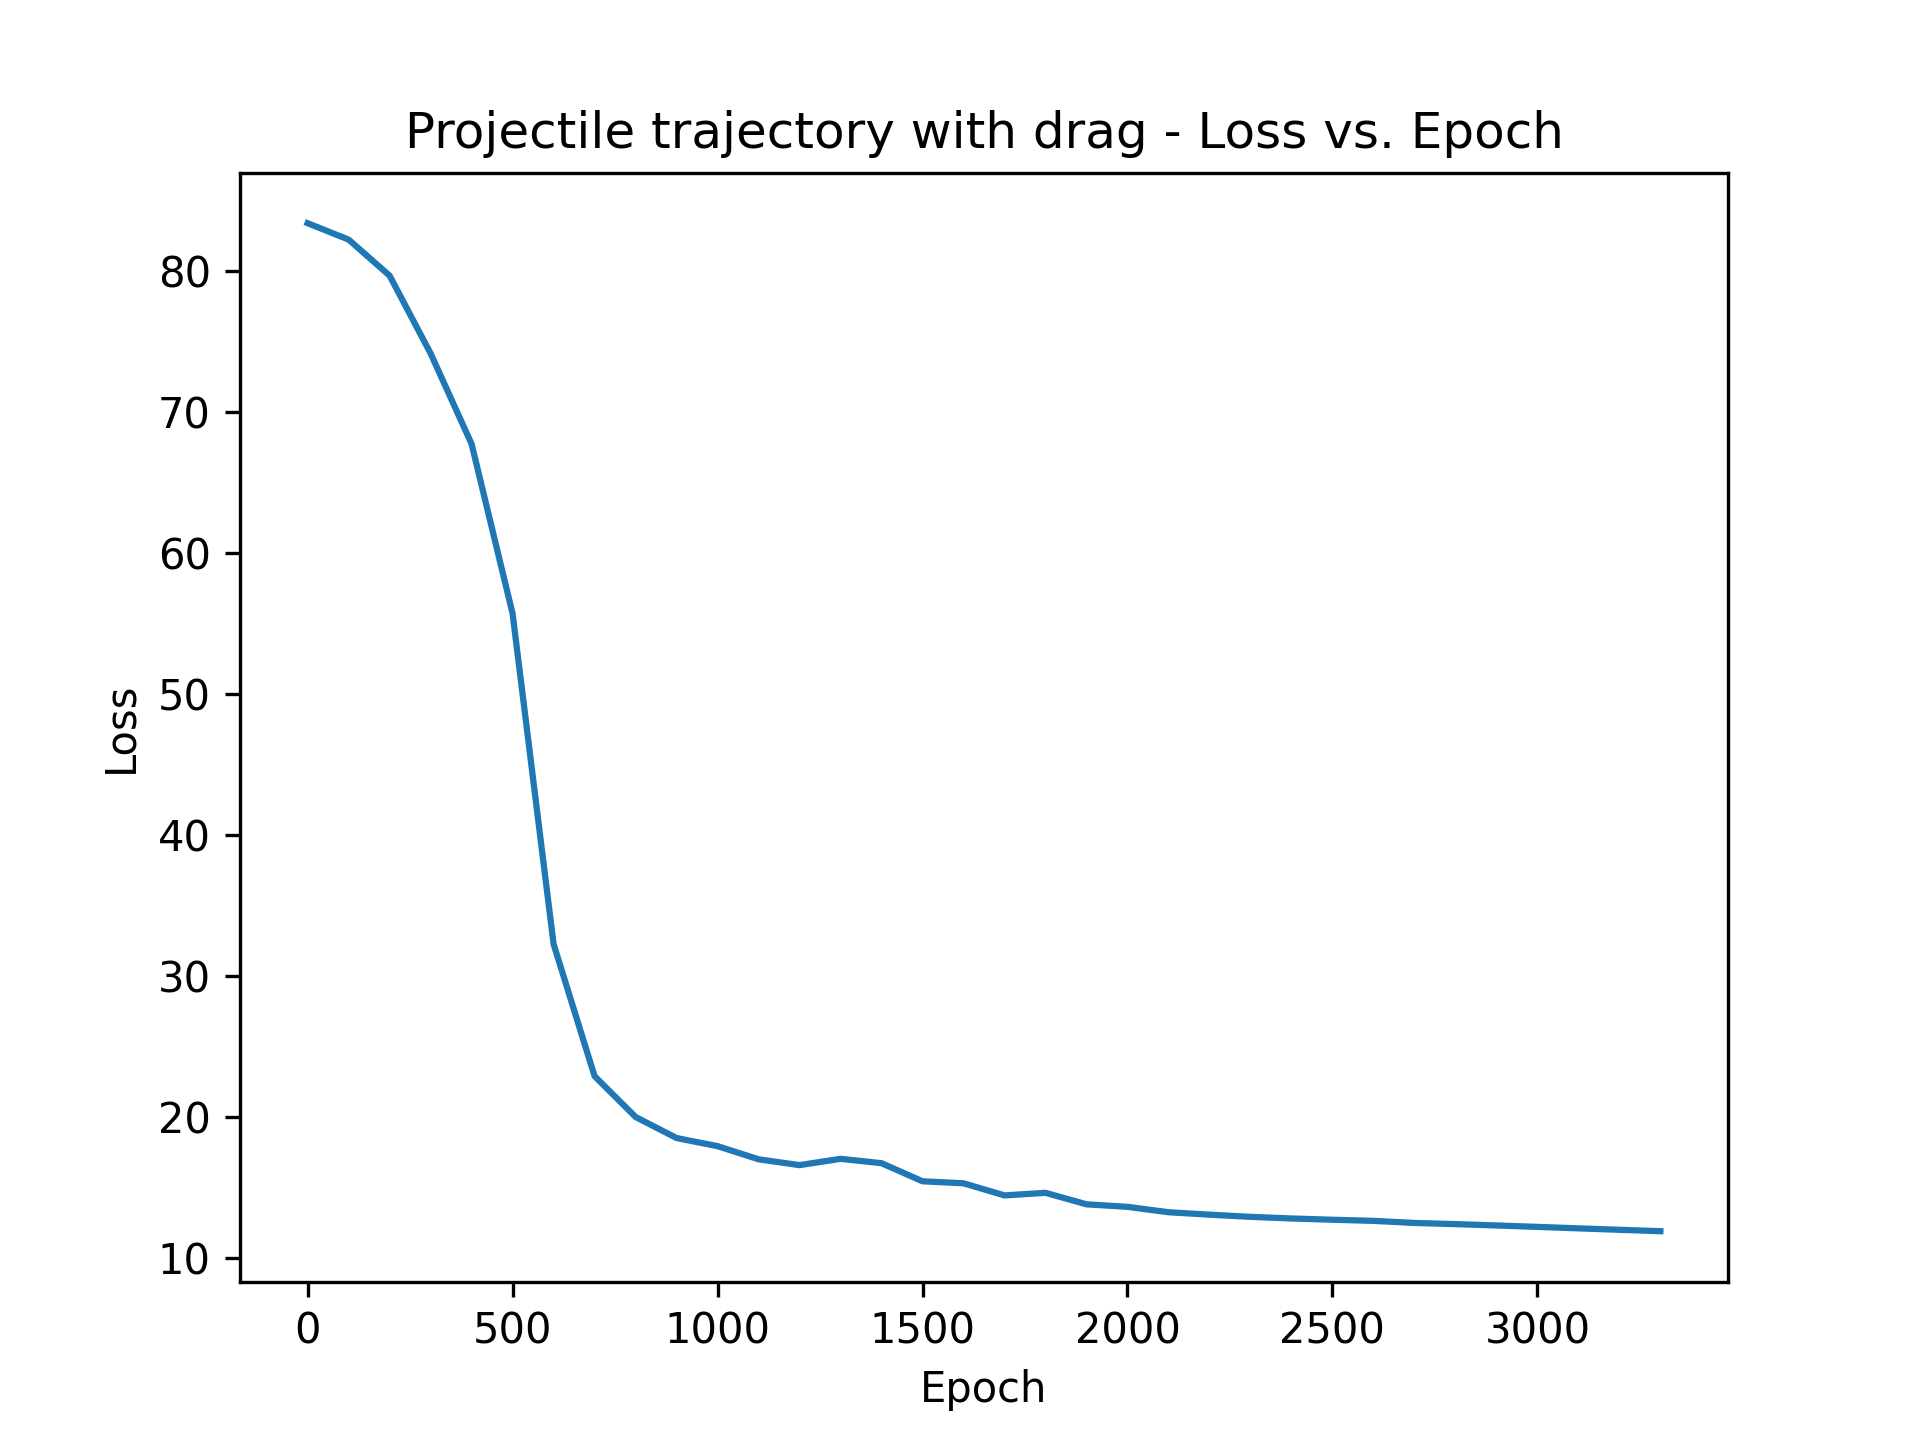
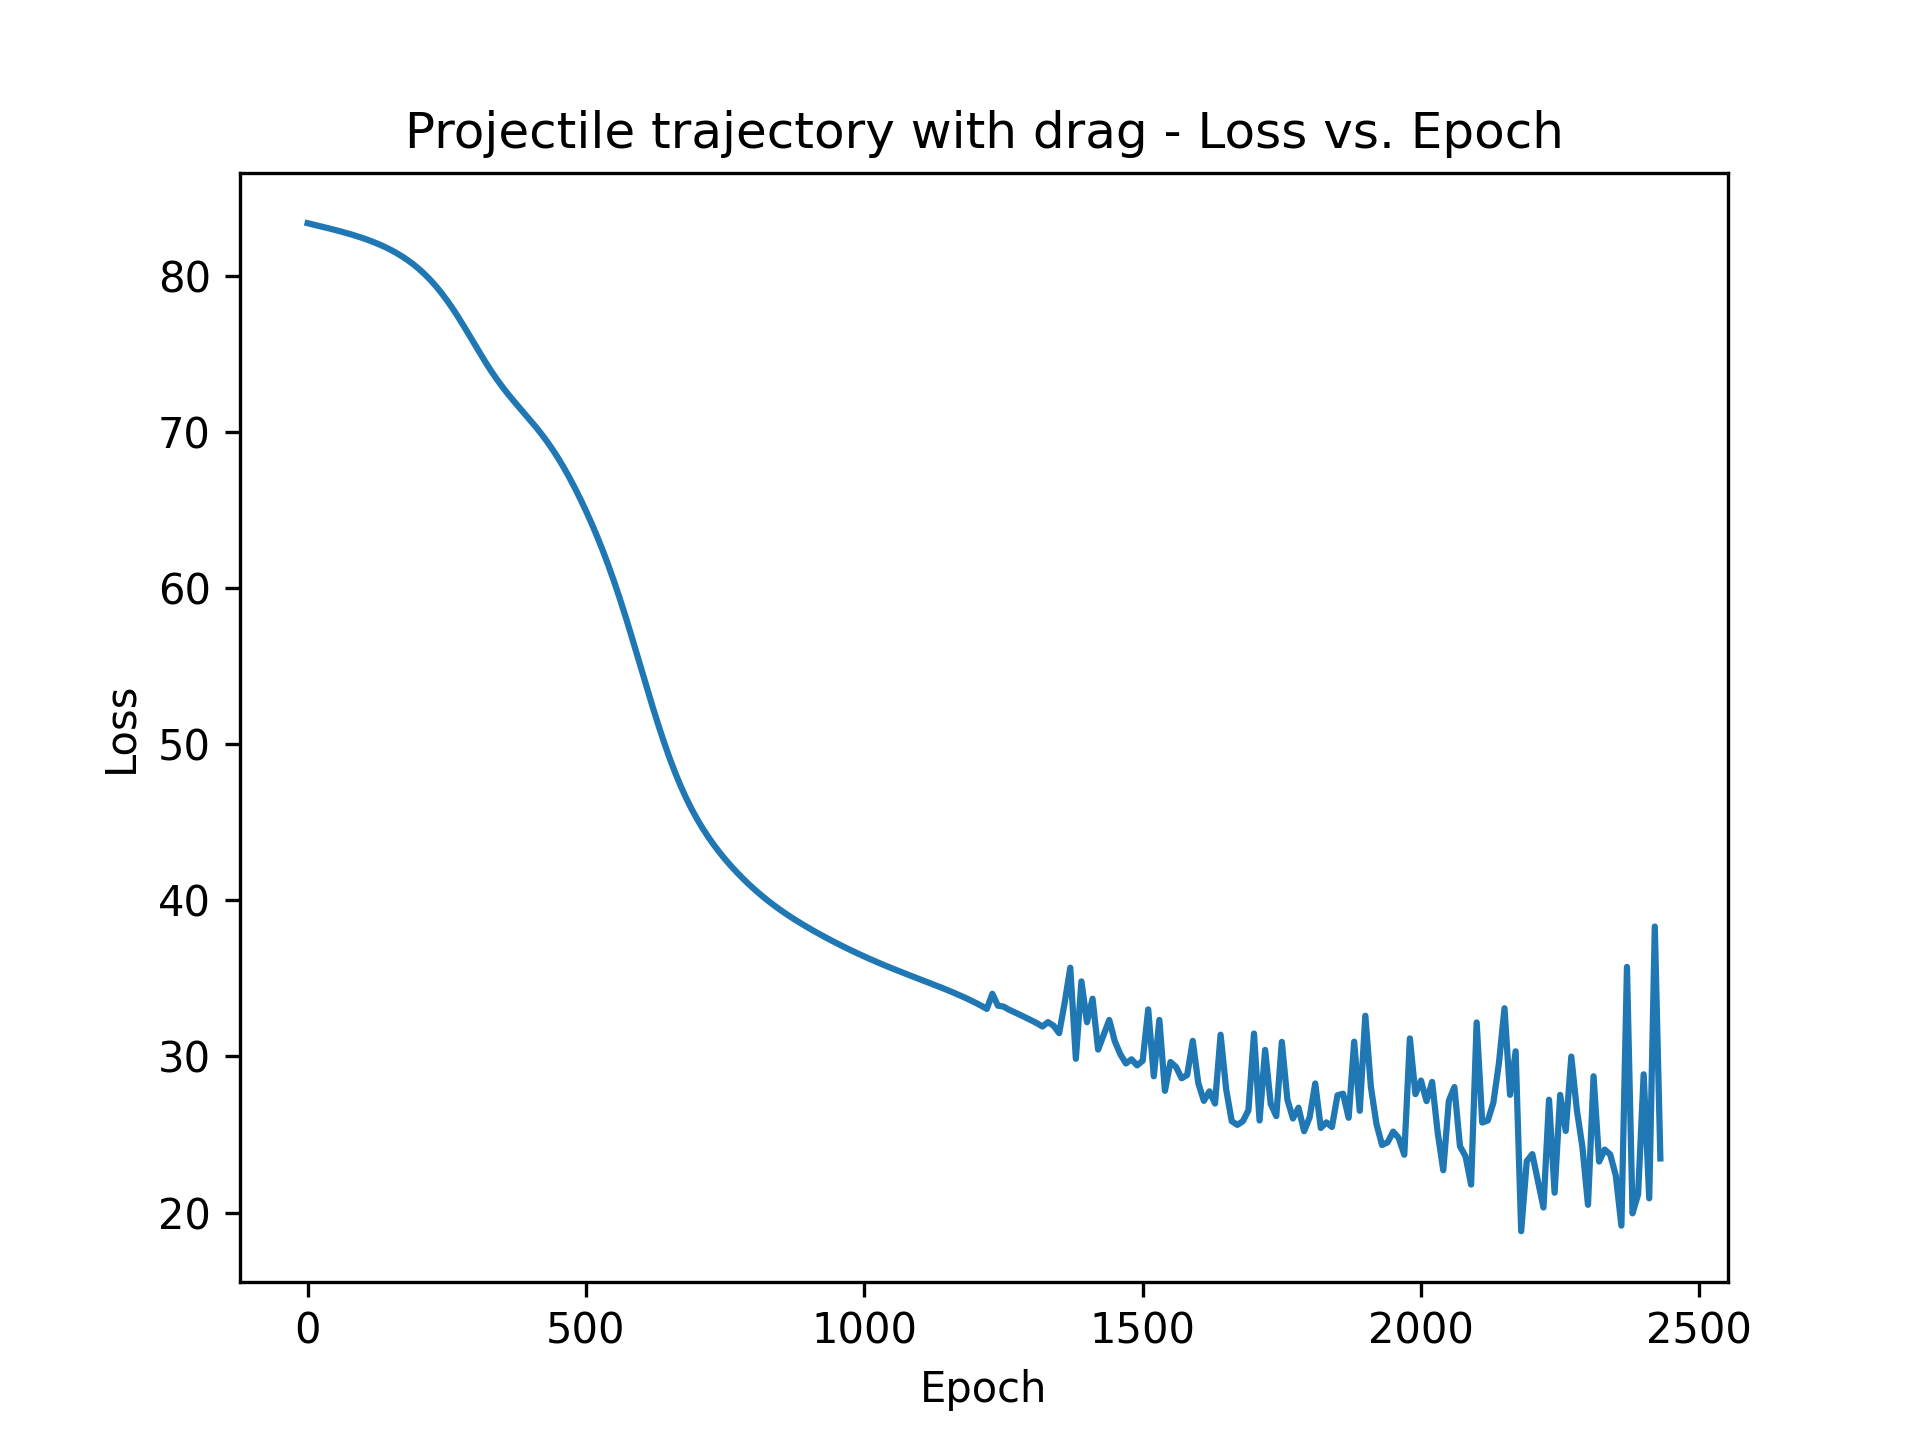
r

diff --git a/pinn_projectile.py b/pinn_projectile.py
@@ -93,12 +93,13 @@ class neural_net(nn.Module):
             u_xx = torch.autograd.functional.jacobian(self.compute_ux, x_in,create_graph=True)
         
             #compute the instantaenous speed
-            vx = y_out[2]
-            vy = y_out[3]
+            #vx = y_out[2]
+            #vy = y_out[3]
 
             #take velocity from the first derivative of position outputs
-            #vx = u_x[0]
-            #vy = u_x[1]
+            #seems to work better
+            vx = u_x[0]
+            vy = u_x[1]
 
             v = torch.sqrt(vx*vx+vy*vy)
          
@@ -227,7 +228,7 @@ while True:
         loss_total += loss.item()
     #scheduler.step()
 
-    if epoch % 100 == 0:
+    if epoch % 10 == 0:
         with open("loss.csv","a") as f:
             f.write(f"{epoch},{loss.item()}\n")
 

diff --git a/readme.md b/readme.md
@@ -281,8 +281,34 @@ which are plotted here (orange dots; green `+`s are the numerical integration re
 
 With the code above, we could not get the network to agree with the numerical integration.  The best was alwats a lopsided fit like this
 
-
 ![Figure 13](https://github.com/tbensky/PiNN_Projectile/blob/main/Media/3points_old_train.png)
+
+We thought maybe the two data points on the left were biasing the loss function too much. We tried many things like changing the network depth and width, and how the physics vs data losses were weighted.  Nothing seemed to work.
+
+Upon reviewing our code, we noticed that there are two ways to find the first derivative (which is the velocity), which is critially needed to compute the loss involving the second derivative, via the $vv_x$ and $vv_y$ terms.
+
+In our code, we have the line
+
+```python
+ u_x = self.compute_ux(x_in) #torch.autograd.functional.jacobian(self, x_in, create_graph=True) 
+```
+which computes the first derivative of the network's ouput with respect to the input (time).  Since output neurons 0 and 1 are mapped to x and y, we thought "why not use `u_x[0]` for $v_x$ and `u_x[1]` for $v_y$?  Thus changing our code to find $v_x$ and $v_y$ from
+
+```python
+vx = y_out[2]
+vy = y_out[3]
+```
+to
+```python
+vx = u_x[0]
+vy = u_x[1]
+```
+
+In other words, take $v_x$ and $v_y$ from the autodifferentiation results of the network itself, and not our network-declared $v_x$ and $v_y$
+
+really seemed to help.
+
+
 
 
 
